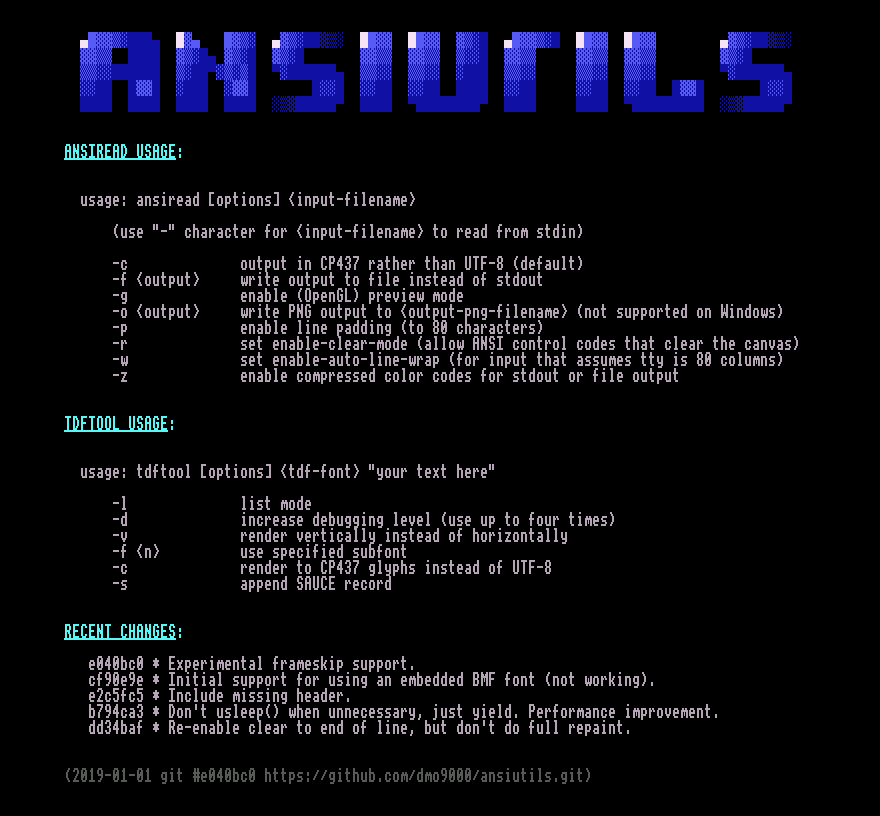
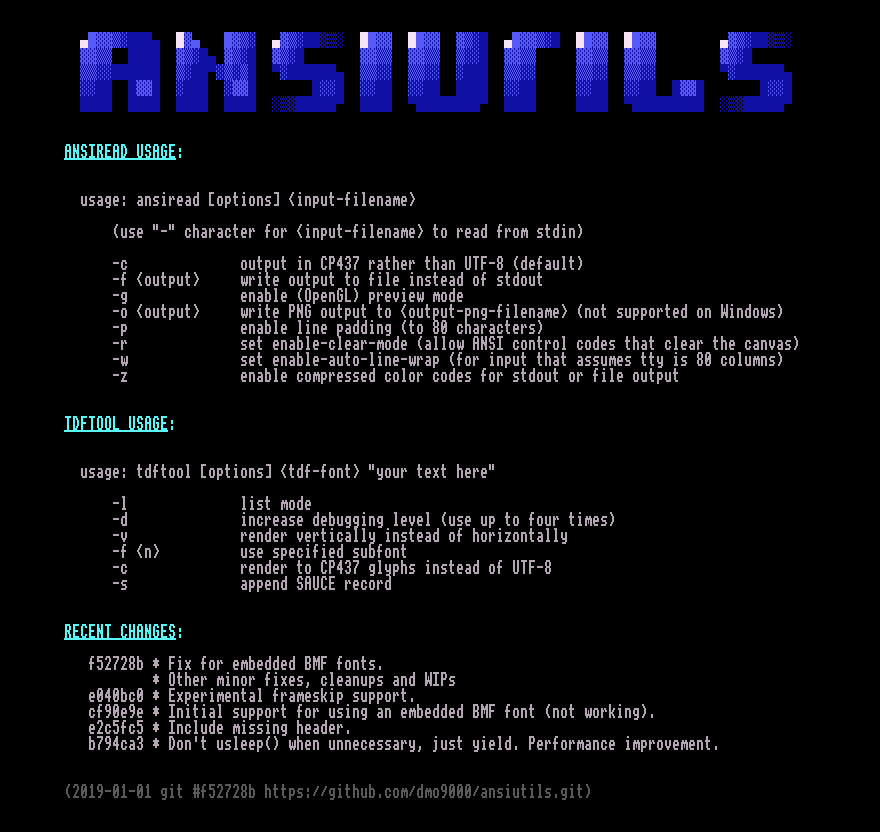
Special key handling for GLUT, proof-of-concept only.

diff --git a/gfx_opengl.c b/gfx_opengl.c
@@ -50,7 +50,6 @@ uint16_t gfx_opengl_getheight()
     return gfx_opengl_height;
 }
 
-
 void gfx_opengl_setdimensions(uint16_t w, uint16_t h)
 {
 
@@ -252,7 +251,7 @@ int gfx_opengl_drawglyph(BitmapFont *font, uint16_t px, uint16_t py, uint8_t gly
         bgc = canvas_displaycolour(bg);
     }
 
-		assert(font->fontdata);
+    assert(font->fontdata);
     for (uint8_t ii = 0; ii < font->header.py; ii++) {
         h = 0;
         for (uint8_t jj = 128; jj >0; jj = jj >> 1) {
@@ -311,6 +310,35 @@ void process_Normal_Keys(int key, int x, int y)
         break;
     }
 
+    return;
+
+}
+
+void process_Special_Keys(int key, int x, int y)
+{
+    //fprintf(stderr, "process_Special_Keys()\r\n");
+
+    switch (key)
+    {
+    case GLUT_KEY_UP:
+        fprintf(stderr, "+++ GLUT_KEY_UP pressed\n");
+        assert(kbbuf_len < (MAX_KBBUF_LEN - strlen("\x1b""[A")));
+        kbbuf_append("\x1B""[A");
+        break;
+    case GLUT_KEY_DOWN:
+        fprintf(stderr, "+++ GLUT_KEY_DOWN pressed\n");
+        assert(kbbuf_len < (MAX_KBBUF_LEN - strlen("\x1b""[B")));
+        kbbuf_append("\x1B""[B");
+        break;
+
+    /* TODO: left/right for line editing */
+
+    default:
+        fprintf(stderr, "+++ Unhandled SPECIAL key\n");
+        break;
+    }
+
+    return;
 }
 
 
@@ -331,8 +359,8 @@ int gfx_opengl_main(ANSICanvas *c, uint16_t xsize, uint16_t ysize, int multiplie
     glutDisplayFunc(display);
     glutIdleFunc(display);
     glutReshapeFunc(reshape_window);
-    glutKeyboardFunc( process_Normal_Keys );
-
+    glutKeyboardFunc(process_Normal_Keys);
+    glutSpecialFunc(process_Special_Keys);
     assert(c);
     myCanvas = c;
 
@@ -466,4 +494,21 @@ int tty_processinput()
     return 1;
 }
 
+int kbbuf_append(char *s)
+{
 
+    int i = 0;
+    if (kbbuf_len < (MAX_KBBUF_LEN - strlen(s))) {
+        //		fprintf(stderr,  "kbbuf_append('%s')\n", s);
+    } else {
+        assert(kbbuf_len >= (MAX_KBBUF_LEN - strlen(s)));
+    }
+
+    for (i = 0; i < strlen(s); i++) {
+        kbbuf[kbbuf_len+i] = s[i];
+    }
+
+    kbbuf_len += strlen(s);
+
+    return 1;
+}
